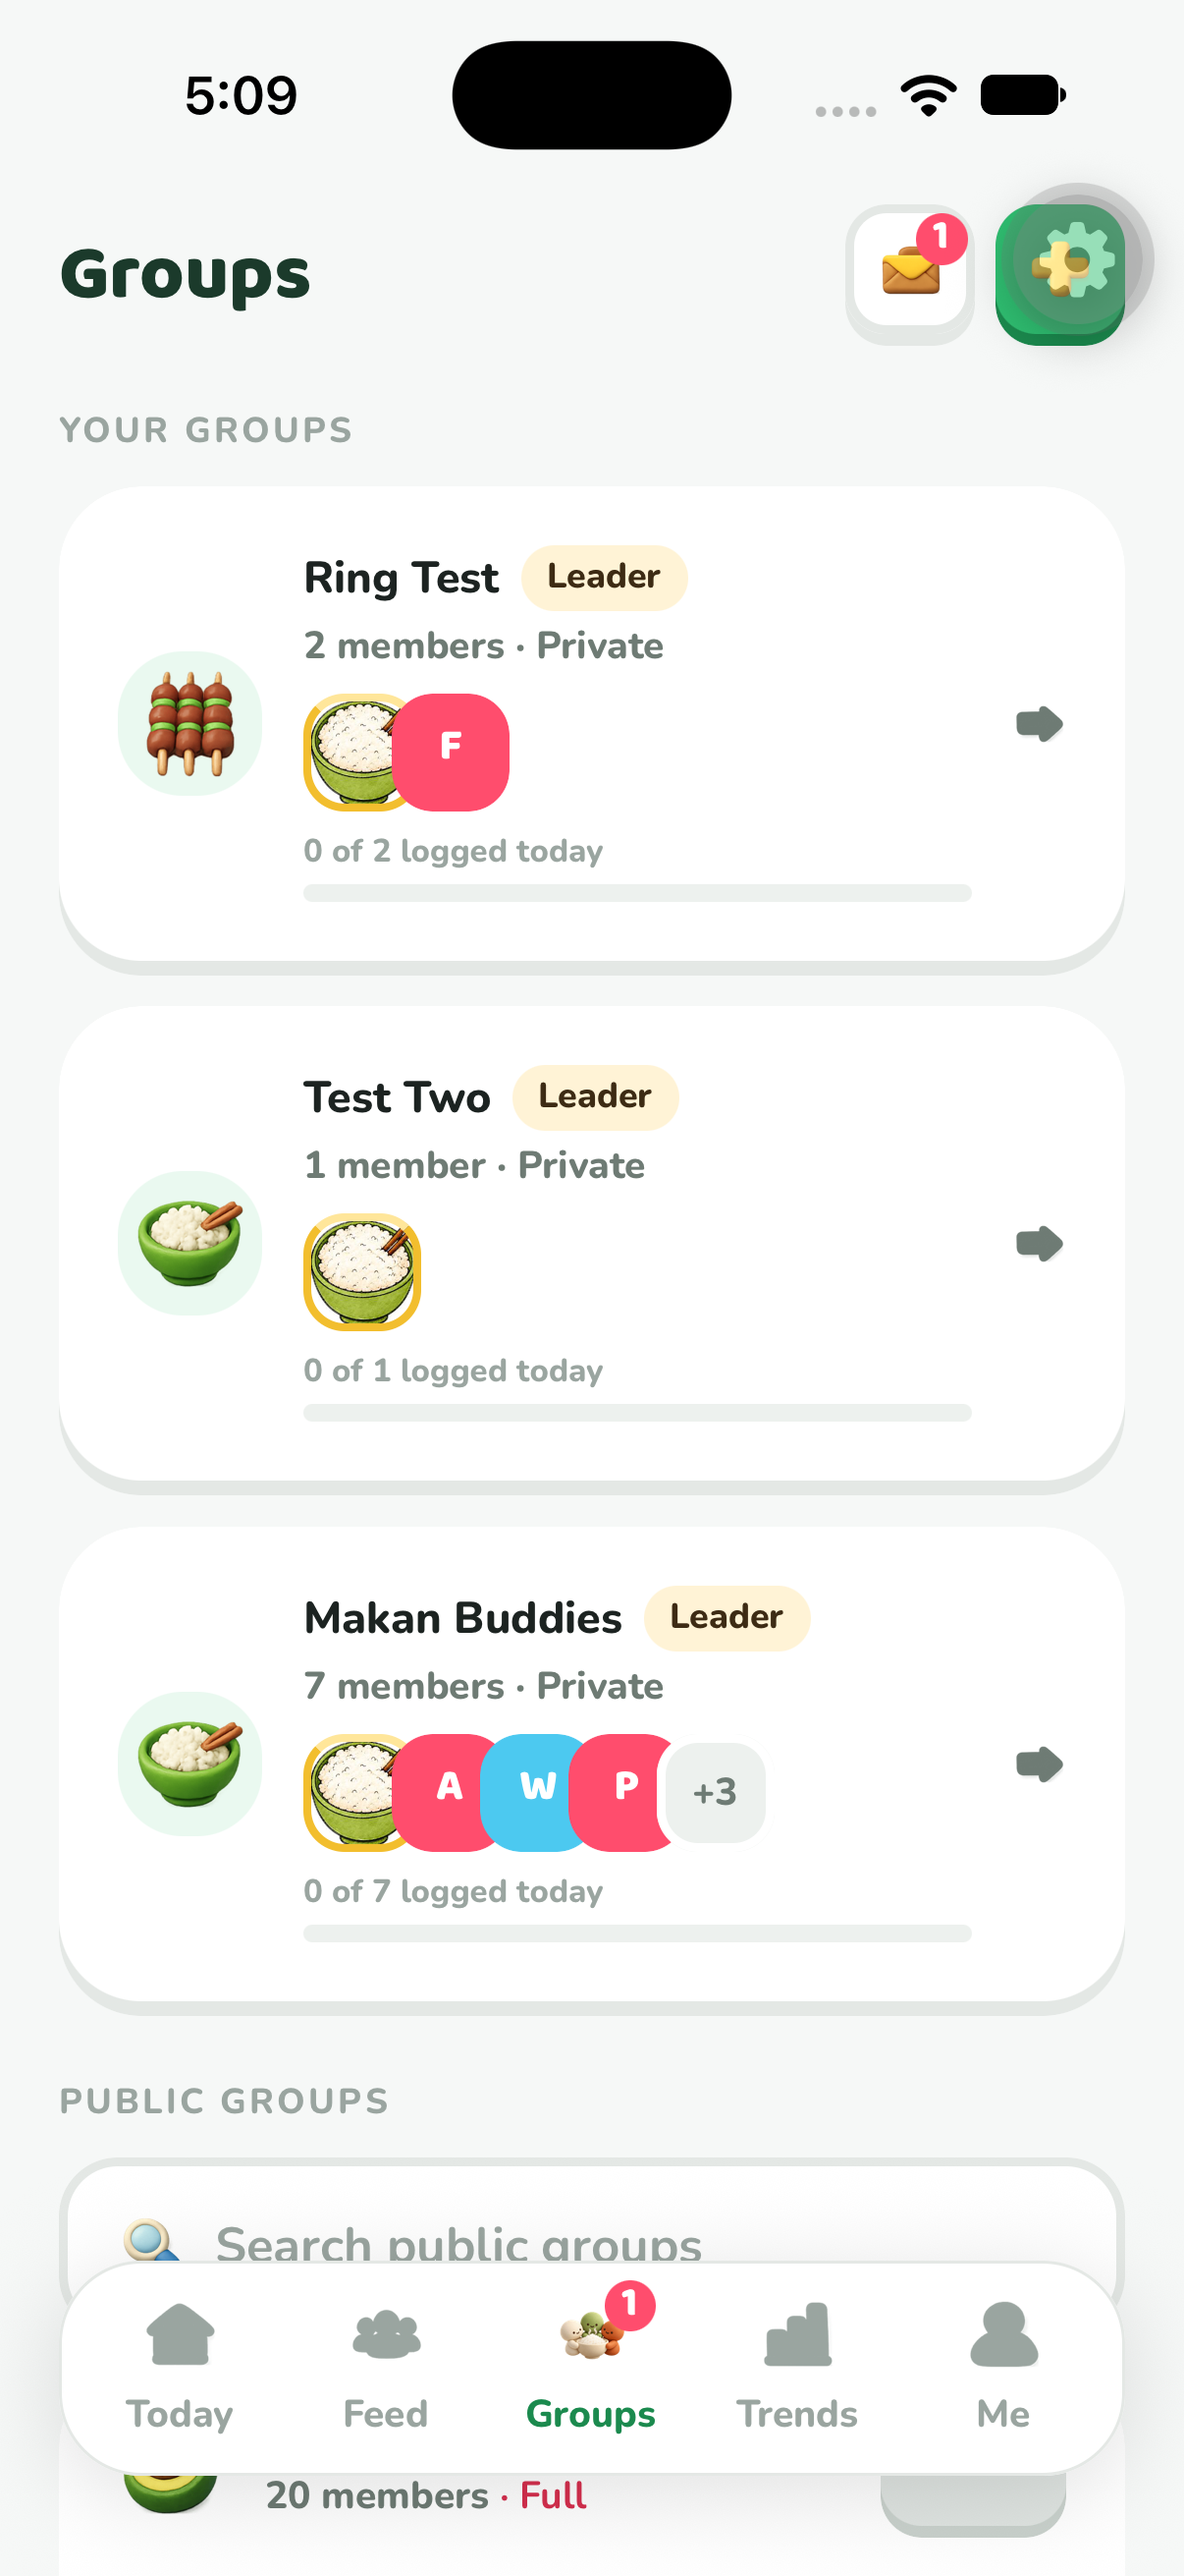
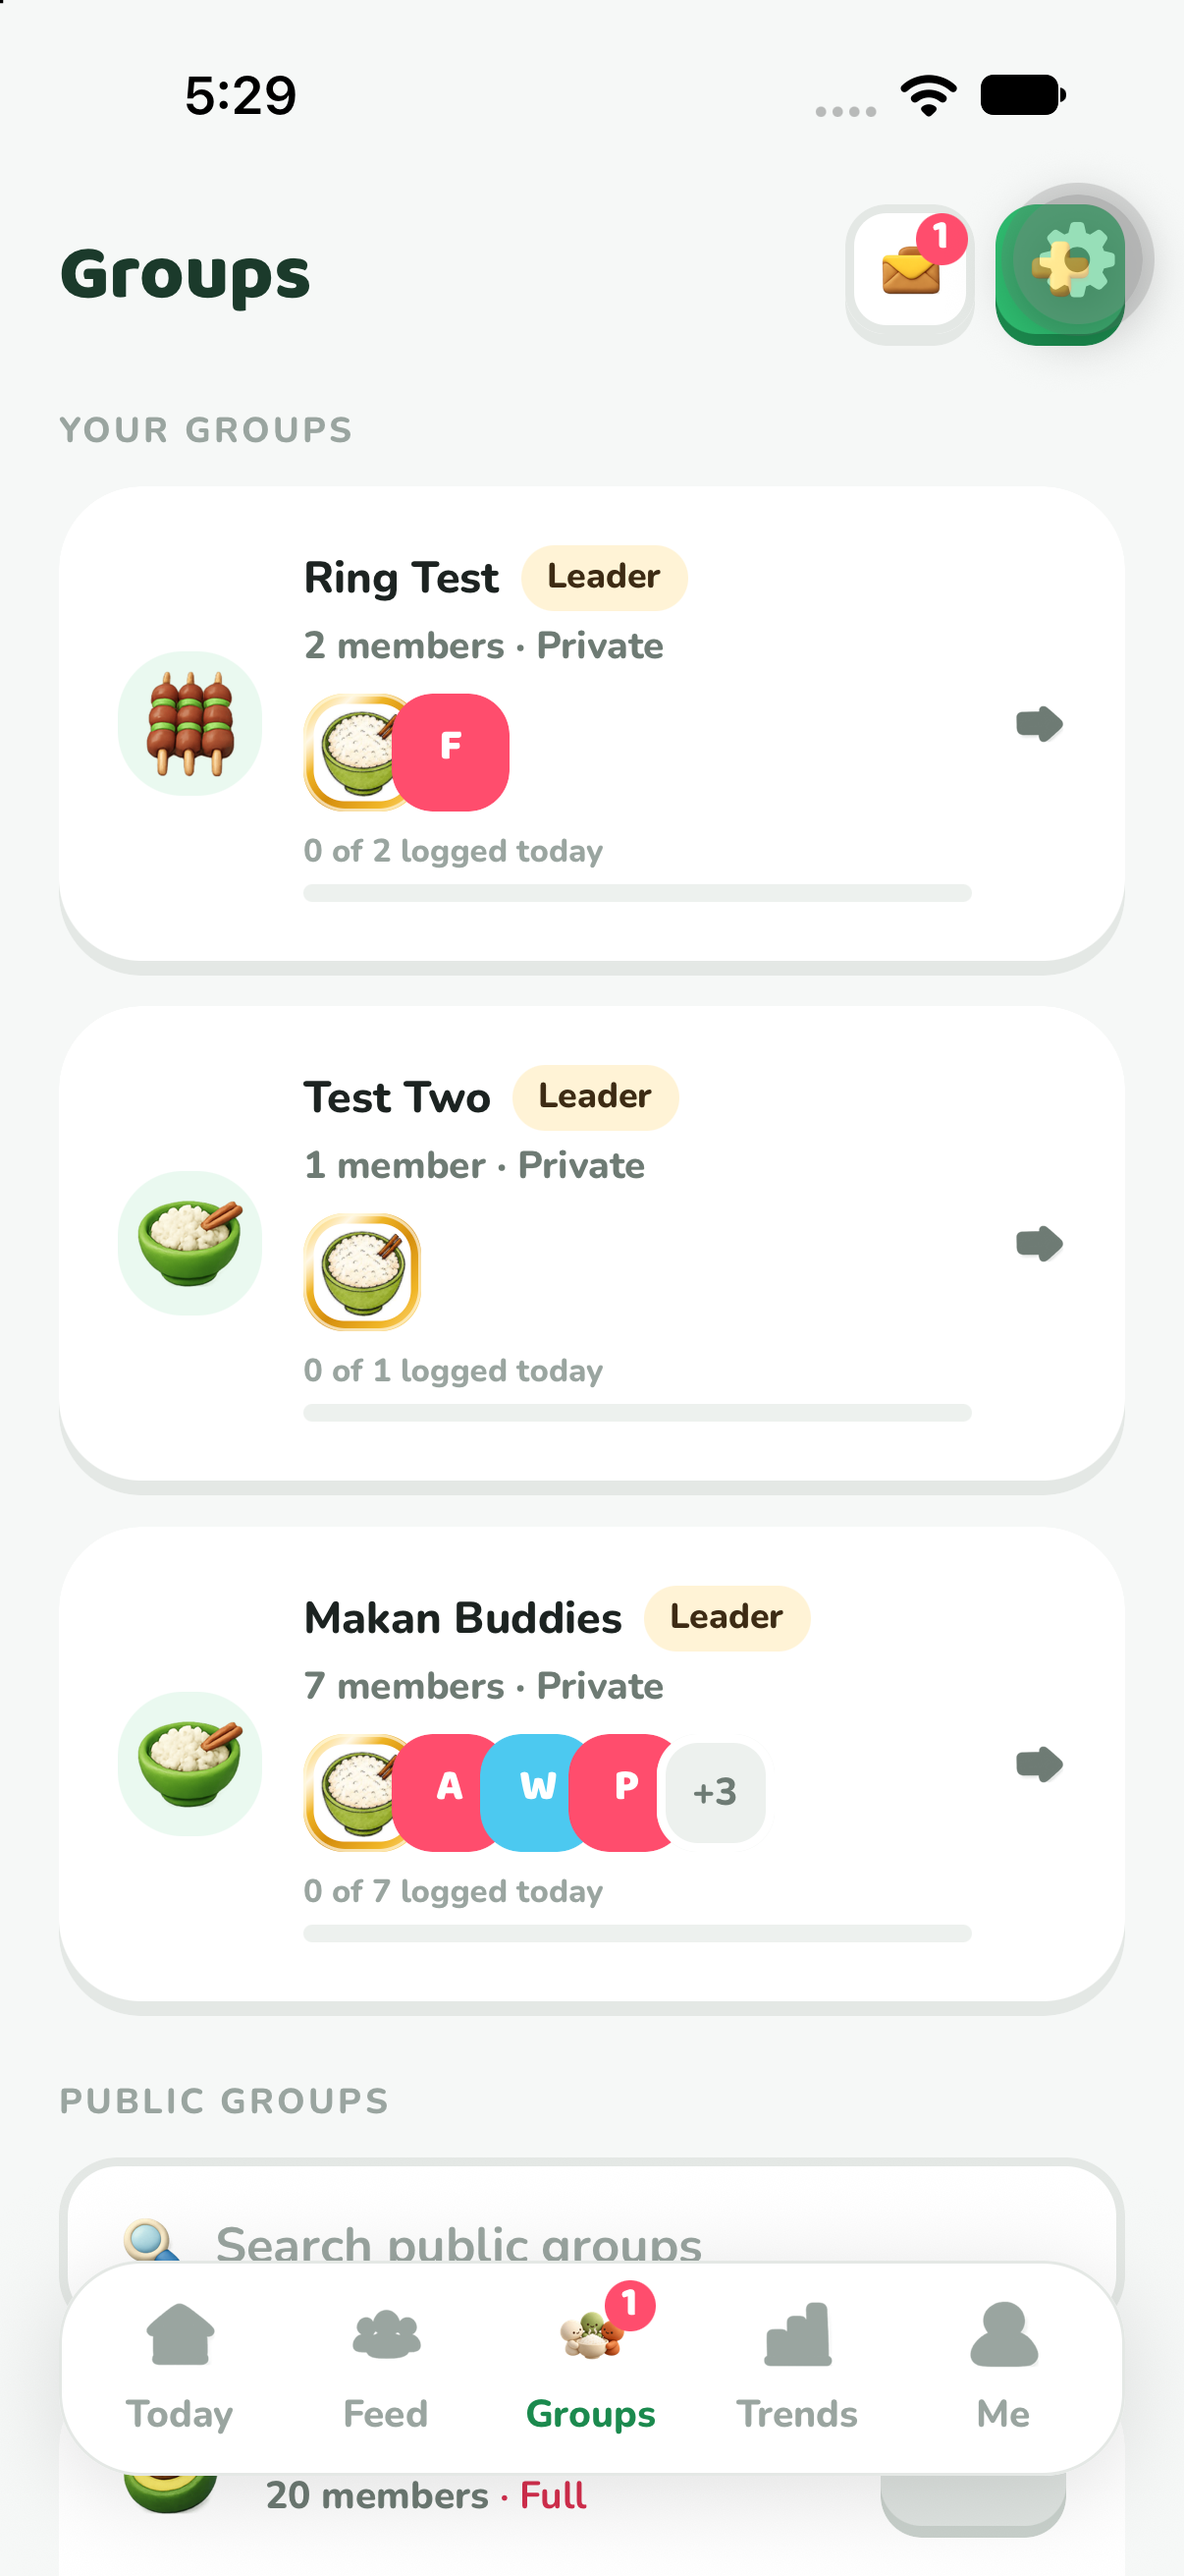
Redraw the Pro gold ring as a metallic frame with an animated sheen
Generated six concepts and took the strongest parts: a thick multi-stop gold frame with a cream setting, a sparkle badge and soft glow on the large sizes, and a sheen that sweeps the gold every few seconds there. Drawn with Skia inside the face's own box, the face scaled into a rounded window, so layouts do not move. In lists the sheen is a still highlight, and Reduce Motion stills it everywhere.

diff --git a/apps/mobile/src/ui/ProRing.tsx b/apps/mobile/src/ui/ProRing.tsx
@@ -1,0 +1,265 @@
+import { Canvas, LinearGradient, Path, RoundedRect, Skia, vec } from '@shopify/react-native-skia'
+import { type ReactNode, useEffect, useMemo } from 'react'
+import { View } from 'react-native'
+import {
+  cancelAnimation,
+  Easing,
+  useDerivedValue,
+  useReducedMotion,
+  useSharedValue,
+  withDelay,
+  withRepeat,
+  withSequence,
+  withTiming,
+} from 'react-native-reanimated'
+
+import { radius as radiusScale } from '@/theme/tokens'
+import { useThemeColors } from '@/theme/useTheme'
+
+/**
+ * The face sizes, as `Avatar` draws them. Kept beside the frame because the
+ * frame is drawn to exactly this box.
+ */
+const FACE = {
+  xs: { box: 30, radius: 11 },
+  sm: { box: 40, radius: 14 },
+  md: { box: 52, radius: 18 },
+  lg: { box: 64, radius: radiusScale.sheet },
+} as const
+
+/**
+ * How thick the gold is and the cream gap inside it, per size. Thick enough
+ * to read as a frame on a 30pt face in a stack, never so thick it eats one.
+ */
+const FRAME = {
+  xs: { gold: 2.5, gap: 1.5 },
+  sm: { gold: 3.5, gap: 1.5 },
+  md: { gold: 4.5, gap: 2 },
+  lg: { gold: 5, gap: 2.5 },
+} as const
+
+/**
+ * Metal rather than paint: a champagne highlight, a bright gold body, a warm
+ * amber turn and a second highlight where the light comes back round. The
+ * same in both themes, because a dark-mode gold reads as brown.
+ */
+const GOLD = ['#FFE79A', '#F6BF2A', '#D58E0C', '#F0B526', '#FFDD80']
+const GOLD_POSITIONS = [0, 0.3, 0.55, 0.8, 1]
+
+/** The sheen: a soft white peak, half as wide as this either side of it. */
+const SHEEN = [
+  'rgba(255, 255, 255, 0)',
+  'rgba(255, 255, 255, 0)',
+  'rgba(255, 255, 255, 0.85)',
+  'rgba(255, 255, 255, 0)',
+  'rgba(255, 255, 255, 0)',
+]
+const SHEEN_HALF = 0.14
+const OFF_START = -SHEEN_HALF
+const OFF_END = 1 + SHEEN_HALF
+
+/** One sweep of the sheen, then a rest long enough that it reads as a glint. */
+const SHEEN_MS = 1100
+const SHEEN_REST_MS = 3600
+
+export type ProRingSize = keyof typeof FACE
+
+/**
+ * A Pro member's face, set in gold.
+ *
+ * Drawn inside the face's own box: the gold frame and a cream gap take the
+ * outer edge and the face is scaled down to sit within them, so a face with
+ * the frame takes exactly the room of one without and no list reflows when
+ * somebody subscribes.
+ *
+ * The large sizes (Me, a profile) also carry a sparkle badge, a soft glow and
+ * a sheen that sweeps across the gold every few seconds. In lists the sheen
+ * is a still highlight: a running animation per face in a scrolling list is a
+ * cost nobody would notice the benefit of. Reduce Motion stills it everywhere.
+ */
+export function ProRing({
+  pro,
+  size = 'md',
+  children,
+}: {
+  pro?: boolean | null
+  size?: ProRingSize
+  children: ReactNode
+}) {
+  // The wrapper is there either way, so a frame arriving with the entitlement
+  // does not remount the face (and its image) under a new parent.
+  if (!pro) return <View>{children}</View>
+  return <GoldFrame size={size}>{children}</GoldFrame>
+}
+
+function GoldFrame({ size, children }: { size: ProRingSize; children: ReactNode }) {
+  const colors = useThemeColors()
+  const reduceMotion = useReducedMotion()
+  const { box, radius } = FACE[size]
+  const { gold, gap } = FRAME[size]
+  const large = size === 'md' || size === 'lg'
+  const animated = large && !reduceMotion
+  const inset = gold + gap
+  const scale = (box - inset * 2) / box
+
+  // Where the sheen is along the top-left to bottom-right diagonal, 0 to 1,
+  // starting and ending off the frame so a sweep enters and leaves cleanly.
+  // A still frame parks it at the top left, where a highlight looks natural.
+  const sweep = useSharedValue(animated ? OFF_START : 0.22)
+  useEffect(() => {
+    if (!animated) return
+    sweep.value = withRepeat(
+      withSequence(
+        withTiming(OFF_START, { duration: 0 }),
+        withDelay(
+          SHEEN_REST_MS,
+          withTiming(OFF_END, { duration: SHEEN_MS, easing: Easing.inOut(Easing.quad) }),
+        ),
+      ),
+      -1,
+    )
+    return () => cancelAnimation(sweep)
+  }, [animated, sweep])
+
+  // A bright band across the diagonal: a gradient along it, transparent but
+  // for a soft white peak at `sweep`, painted over the gold and clipped to
+  // it, so only the frame catches the light.
+  const sheenPositions = useDerivedValue(() => {
+    const p = sweep.value
+    const clamp = (v: number) => Math.min(1, Math.max(0, v))
+    return [0, clamp(p - SHEEN_HALF), clamp(p), clamp(p + SHEEN_HALF), 1]
+  })
+
+  const goldShape = useMemo(() => {
+    const outer = Skia.RRectXY(Skia.XYWHRect(0, 0, box, box), radius, radius)
+    return Skia.PathBuilder.Make().addRRect(outer).detach()
+  }, [box, radius])
+
+  const innerRadius = Math.max(2, radius - gold)
+
+  return (
+    <View
+      style={[
+        { width: box, height: box },
+        large
+          ? {
+              shadowColor: '#F2B51F',
+              shadowOpacity: 0.45,
+              shadowRadius: size === 'lg' ? 8 : 6,
+              shadowOffset: { width: 0, height: 0 },
+              elevation: 4,
+              borderRadius: radius,
+            }
+          : null,
+      ]}
+    >
+      <Canvas
+        style={{ position: 'absolute', width: box, height: box }}
+        pointerEvents="none"
+        accessibilityElementsHidden
+        importantForAccessibility="no-hide-descendants"
+      >
+        {/* The gold, light falling from the top left. */}
+        <Path path={goldShape}>
+          <LinearGradient
+            start={vec(0, 0)}
+            end={vec(box, box)}
+            colors={GOLD}
+            positions={GOLD_POSITIONS}
+          />
+        </Path>
+        {/* The sheen, painted over the gold in the gold's own shape. */}
+        <Path path={goldShape}>
+          <LinearGradient
+            start={vec(0, 0)}
+            end={vec(box, box)}
+            colors={SHEEN}
+            positions={sheenPositions}
+          />
+        </Path>
+        {/* A bright lip along the outer edge, the metal's polished rim. */}
+        <RoundedRect
+          x={0.5}
+          y={0.5}
+          width={box - 1}
+          height={box - 1}
+          r={radius}
+          style="stroke"
+          strokeWidth={1}
+          color="rgba(255, 248, 220, 0.7)"
+        />
+        {/* The cream setting between the gold and the face. */}
+        <RoundedRect
+          x={gold}
+          y={gold}
+          width={box - gold * 2}
+          height={box - gold * 2}
+          r={innerRadius}
+          color={colors.surface}
+        />
+      </Canvas>
+      {/* The face, in a rounded window a touch smaller than the setting: the
+          avatar's own fill can show as a hairline at a scaled edge, and the
+          window crops it. */}
+      <View
+        style={{
+          position: 'absolute',
+          top: inset,
+          left: inset,
+          width: box - inset * 2,
+          height: box - inset * 2,
+          borderRadius: Math.max(2, innerRadius - gap),
+          overflow: 'hidden',
+          alignItems: 'center',
+          justifyContent: 'center',
+        }}
+      >
+        <View style={{ width: box, height: box, transform: [{ scale: scale * 1.04 }] }}>
+          {children}
+        </View>
+      </View>
+      {large ? <Sparkle size={size} /> : null}
+    </View>
+  )
+}
+
+/**
+ * The small gold medallion with a four-point star, pinned to the top right
+ * corner of the large faces. Outside the box, so it costs no layout.
+ */
+function Sparkle({ size }: { size: ProRingSize }) {
+  const colors = useThemeColors()
+  const d = size === 'lg' ? 20 : 16
+  const star = useMemo(() => {
+    const c = d / 2
+    const r = d * 0.3
+    const w = r * 0.32
+    return Skia.PathBuilder.Make()
+      .moveTo(c, c - r)
+      .quadTo(c + w * 0.3, c - w * 0.3, c + r, c)
+      .quadTo(c + w * 0.3, c + w * 0.3, c, c + r)
+      .quadTo(c - w * 0.3, c + w * 0.3, c - r, c)
+      .quadTo(c - w * 0.3, c - w * 0.3, c, c - r)
+      .close()
+      .detach()
+  }, [d])
+  return (
+    <Canvas
+      style={{ position: 'absolute', top: -d * 0.3, right: -d * 0.3, width: d, height: d }}
+      pointerEvents="none"
+      accessibilityElementsHidden
+      importantForAccessibility="no-hide-descendants"
+    >
+      {/* A ring of the surface colour lifts it off whatever is behind. */}
+      <RoundedRect x={0} y={0} width={d} height={d} r={d / 2} color={colors.surface} />
+      <RoundedRect x={1.5} y={1.5} width={d - 3} height={d - 3} r={(d - 3) / 2}>
+        <LinearGradient
+          start={vec(0, 0)}
+          end={vec(d, d)}
+          colors={['#FFE99A', '#F2B51F', '#D9900F']}
+        />
+      </RoundedRect>
+      <Path path={star} color="#FFFFFF" />
+    </Canvas>
+  )
+}

diff --git a/apps/mobile/src/ui/Avatar.tsx b/apps/mobile/src/ui/Avatar.tsx
@@ -211,60 +211,3 @@ export function AvatarGroup({
     </View>
   )
 }
-
-/**
- * The bevel that makes the ring read as metal rather than as a yellow line:
- * light catches the top edge and the rest is plain gold. The same in both
- * themes, because gold is the point and a dark-mode gold is brown. Without a
- * deep bottom edge, which read as brown on the smallest faces.
- */
-const GOLD = { light: '#FFE69A', mid: '#F2BE2E' } as const
-
-/**
- * A gold ring round a Pro member's face, for status.
- *
- * Drawn on the avatar's own edge rather than outside it, so a face with a
- * ring keeps exactly the size and alignment of one without: a list never
- * reflows when somebody subscribes, and a row of names stays in line. Static:
- * a shimmer would be a running animation per face in a scrolling list.
- */
-export function ProRing({
-  pro,
-  size = 'md',
-  children,
-}: {
-  pro?: boolean | null
-  size?: AvatarSize
-  children: ReactNode
-}) {
-  const metrics = sizes[size]
-  const width = size === 'xs' ? 2 : size === 'lg' ? 3.5 : 2.5
-  // The wrapper is there either way, so a ring arriving with the entitlement
-  // adds a sibling rather than remounting the face (and its image) under a
-  // new parent.
-  return (
-    <View>
-      {children}
-      {pro ? (
-        <View
-          pointerEvents="none"
-          accessibilityElementsHidden
-          importantForAccessibility="no-hide-descendants"
-          style={{
-            position: 'absolute',
-            top: 0,
-            left: 0,
-            width: metrics.box,
-            height: metrics.box,
-            borderRadius: metrics.radius,
-            borderWidth: width,
-            borderTopColor: GOLD.light,
-            borderLeftColor: GOLD.mid,
-            borderRightColor: GOLD.mid,
-            borderBottomColor: GOLD.mid,
-          }}
-        />
-      ) : null}
-    </View>
-  )
-}

diff --git a/apps/mobile/src/ui/index.ts b/apps/mobile/src/ui/index.ts
@@ -29,7 +29,6 @@ export {
   type AvatarGroupProps,
   type AvatarProps,
   type AvatarSize,
-  ProRing,
 } from './Avatar'
 // Layout for the window the app has: iPhone Duo's side column and two panes
 export { useOverlayInsets, usePaneWidth, useWindowLayout } from './adaptive'
@@ -104,6 +103,7 @@ export {
   type ProgressBarProps,
   type ProgressTone,
 } from './ProgressBar'
+export { ProRing, type ProRingSize } from './ProRing'
 // Layout
 export { footerKeyboardOffset, Screen, type ScreenProps } from './Screen'
 export { SearchField, type SearchFieldProps } from './SearchField'

diff --git a/README.md b/README.md
@@ -3375,9 +3375,13 @@ stays closed to clients, since it would answer for any id; the views reach it
 through `private.social_is_pro`, which answers only for a profile that has
 joined the feed and is public (and for the caller's own), so the view cannot be
 used to list who pays among people who never posted or keep their profile
-private. `ProRing` in `ui/Avatar.tsx` draws it over the avatar rather
-than around it, so a list never reflows when somebody subscribes, and it is
-static: a shimmer would be an animation per face in a scrolling list.
+private. `ProRing` (`ui/ProRing.tsx`, Skia) sets the face in a metallic gold frame
+with a cream gap, scaling the face down inside its own box, so a list never
+reflows when somebody subscribes. The large sizes (Me, a profile) add a soft
+glow, a sparkle badge and a sheen that sweeps across the gold every few
+seconds; in lists the sheen is a still highlight, since an animation per face
+in a scrolling list costs more than it shows. Reduce Motion stills it. Every
+avatar is flat, so the frame encloses the whole tile.
 
 Twenty members, at most twenty groups a person, enforced by a trigger that
 locks the group row so two people cannot take the last seat together. The cap
